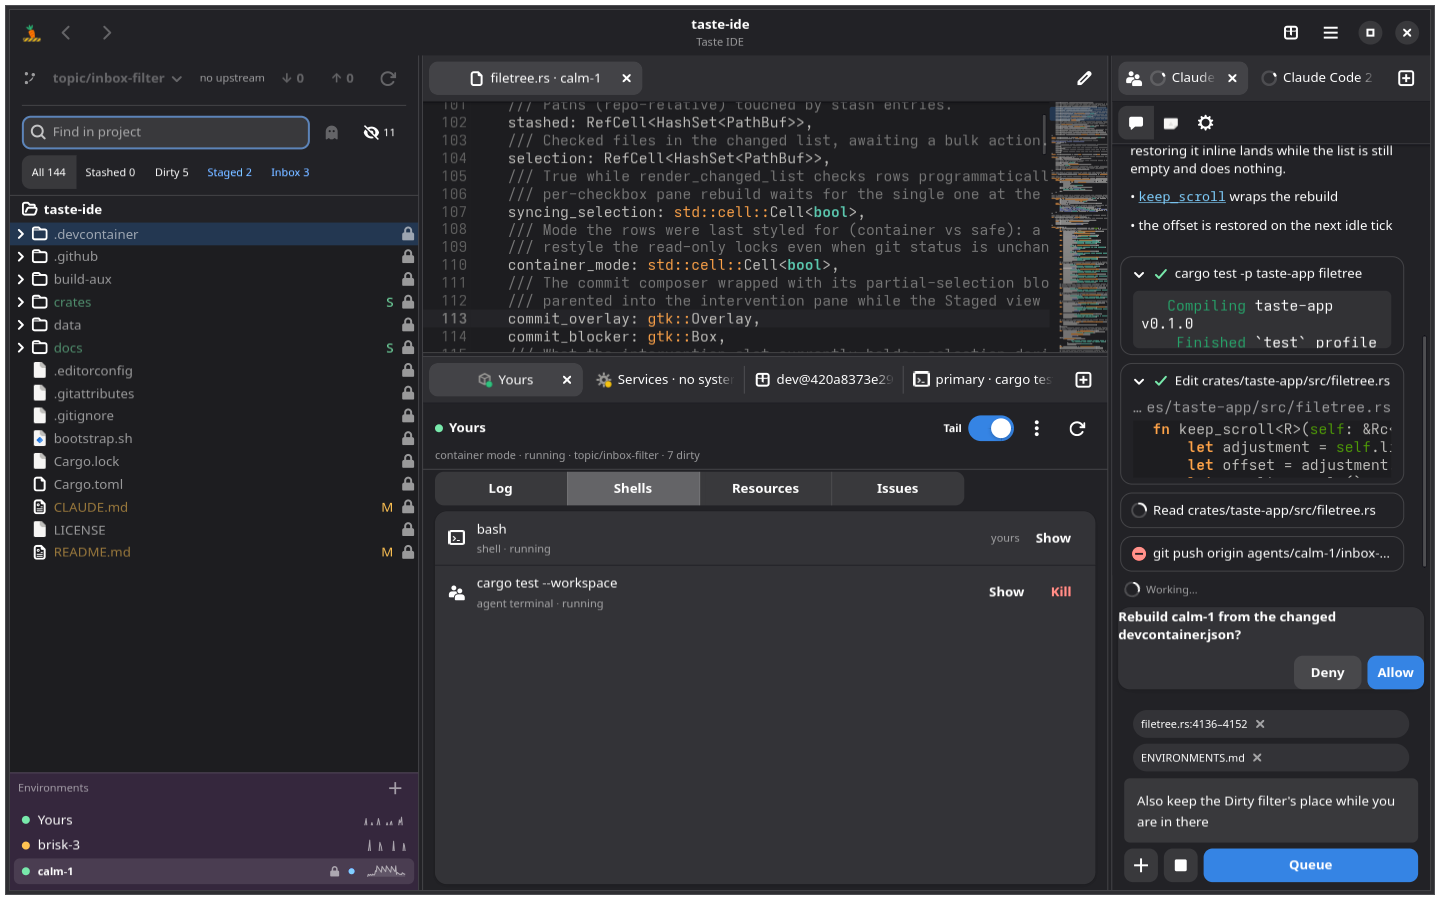
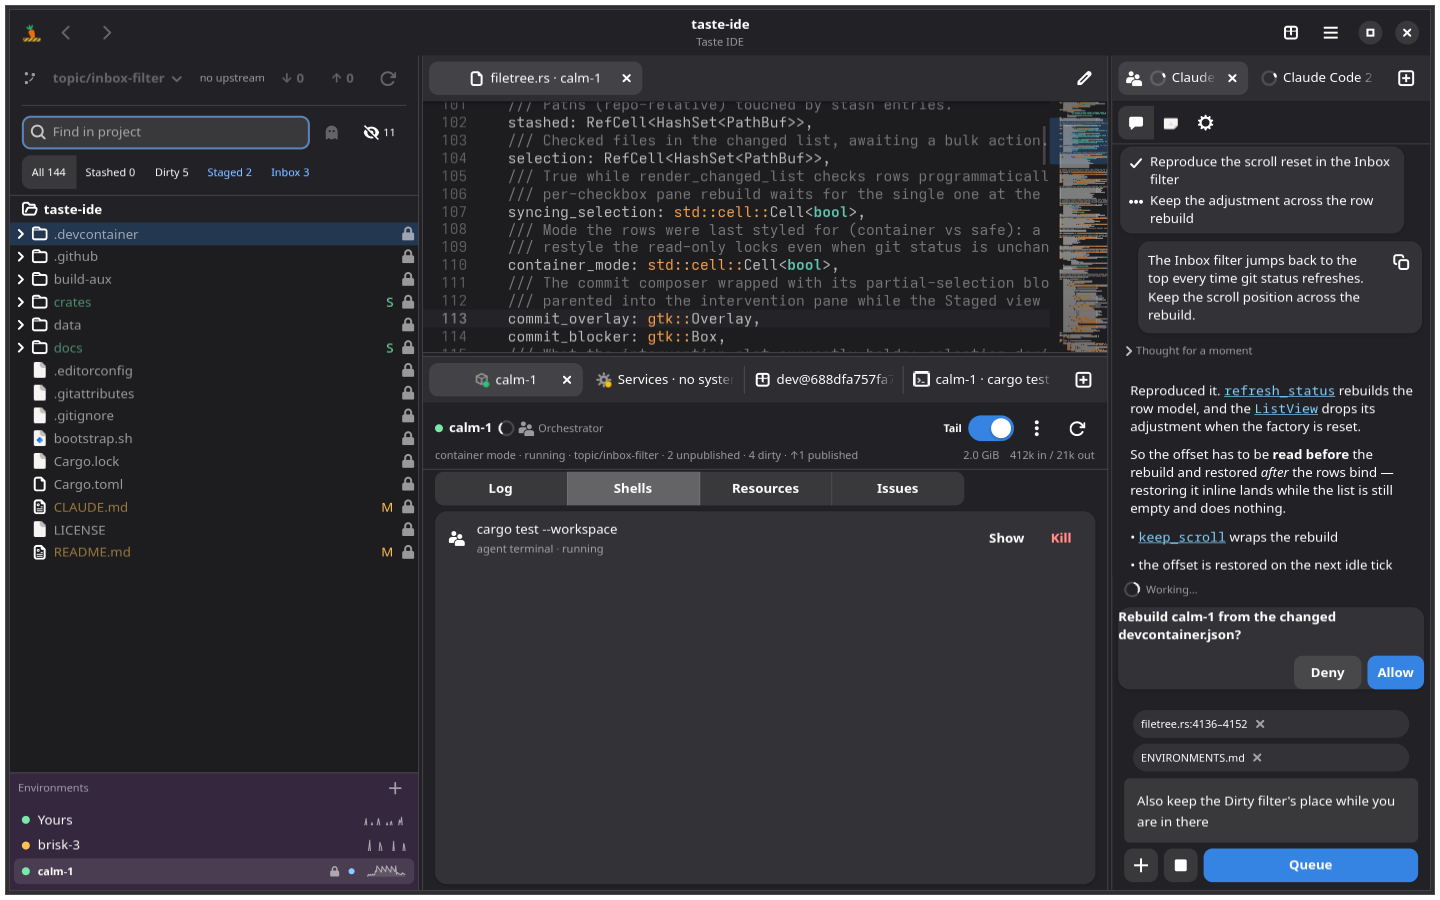
Probe: the watching views aim every pane, not just the tree
The watching screenshot caught the console still saying "Yours" while the
panel beside it said "calm-1" — two surfaces disagreeing about where the
panes are, which is precisely the failure that deleting the console's second
listing was supposed to make impossible. The product was right; the fixture
was not. `seed_watching_for_probe` aims the TREE, and nothing in the running
app ever does only that: `aim_panes` moves the tree, the editor and the
console together. The probe now remembers which environment a view watches
and calls `note_watching` after the fleet is seeded, because the header reads
a row and the rows have to exist first.

The agent terminal is seeded into the watched environment rather than always
into the primary, for the same reason: watching is "open an environment and
see its agent work", and a roster reading "nothing running here" while the
agent works next door is a shot contradicting its own caption.

The result is a window that agrees with itself end to end — the tree's locks,
the editor tab's badge, the panel's tinted selected row, the console tab, its
header, and its shell roster all say calm-1 — and it is a better picture of
what watching is than the one it replaces, which showed the state of the
environment you had left.

diff --git a/crates/taste-app/src/window.rs b/crates/taste-app/src/window.rs
@@ -657,6 +657,15 @@ pub fn build_window(app: &adw::Application, root: PathBuf) -> adw::ApplicationWi
         // strip tinted and locked, git controls disabled), `inbox` (the
         // review view an agent's published work lands in), or `envstrip`
         // (at home, with the switcher open).
+        // Which environment this view watches, if any — remembered so the
+        // console can be told too. `seed_watching_for_probe` aims the TREE
+        // directly, and in the running app nothing does that: `aim_panes`
+        // moves the tree, the editor and the console together. Seeding only
+        // half of it shot a window whose panel said `calm-1` while the
+        // console header still said `Yours` — two surfaces disagreeing about
+        // where the panes are, which is the exact failure that deleting the
+        // console's second listing was meant to make impossible.
+        let mut watched: Option<taste_core::environment::EnvironmentId> = None;
         match view.as_str() {
             "inbox" => filetree.seed_inbox_for_probe(),
             // The views that are about the primary checkout leave the tree
@@ -666,7 +675,10 @@ pub fn build_window(app: &adw::Application, root: PathBuf) -> adw::ApplicationWi
             // untinted, with "Yours" the selected row.
             "hero" | "fleet" | "envstrip" => {}
             view if view.starts_with("issues") => {}
-            _ => filetree.seed_watching_for_probe("calm-1"),
+            _ => {
+                filetree.seed_watching_for_probe("calm-1");
+                watched = taste_core::environment::EnvironmentId::parse("calm-1").ok();
+            }
         }
         // An editor with code in it. "No Files Open" is an honest empty
         // state and a dishonest screenshot: the pane is the middle of the
@@ -700,7 +712,11 @@ pub fn build_window(app: &adw::Application, root: PathBuf) -> adw::ApplicationWi
             })
         };
         // A live agent terminal: the console's half of live shells.
-        console.seed_agent_terminal_for_probe(&primary_env);
+        // Into the environment being WATCHED when there is one: watching is
+        // "open an environment and see its agent work", and a roster that
+        // says "nothing running here" while the agent works next door is the
+        // shot contradicting its own caption.
+        console.seed_agent_terminal_for_probe(watched.as_ref().unwrap_or(&primary_env));
         // And a fleet with something in it: one row per environment is
         // what the console's pinned tab now is. The console gets more of
         // the window than it normally has, because a fleet of one row is
@@ -720,6 +736,11 @@ pub fn build_window(app: &adw::Application, root: PathBuf) -> adw::ApplicationWi
             "envstrip" => 4,
             _ => 2,
         });
+        // ...and the console follows the panes, exactly as `aim_panes`
+        // makes it. After the fleet seed, because the header reads the row.
+        if let Some(env) = &watched {
+            console.note_watching(env);
+        }
         // A queue with something on it, always: gadget mode's card counts
         // it, so a probe with an empty ref would shoot a card that is
         // missing the thing this phase added. The console pane takes it

diff --git a/README.md b/README.md
@@ -46,9 +46,12 @@ minutes. One click aims the panes, and the panel tints itself while you are
 away from your own checkout; every tree row carries a lock, and files open as
 read-only tabs badged with the environment's name.
 
-![The file tree in watching mode: every row padlocked, the Environments panel
-at its foot tinted purple with "calm-1" selected and carrying a lock, and the
-editor tab labelled "filetree.rs · calm-1".](docs/screenshots/watching.png)
+![The taste-ide window watching calm-1: every file tree row padlocked, the
+Environments panel at its foot tinted purple with "calm-1" selected and
+carrying a lock, the editor tab labelled "filetree.rs · calm-1", and the
+console detailing calm-1 — its orchestrator chat working, its branch, 2
+unpublished and 4 dirty files, its footprint and token spend, and its agent's
+running terminal.](docs/screenshots/watching.png)
 
 Agents publish branches; they never push. Published work lands in a review
 inbox beside Dirty and Staged, and opens as a diff.
